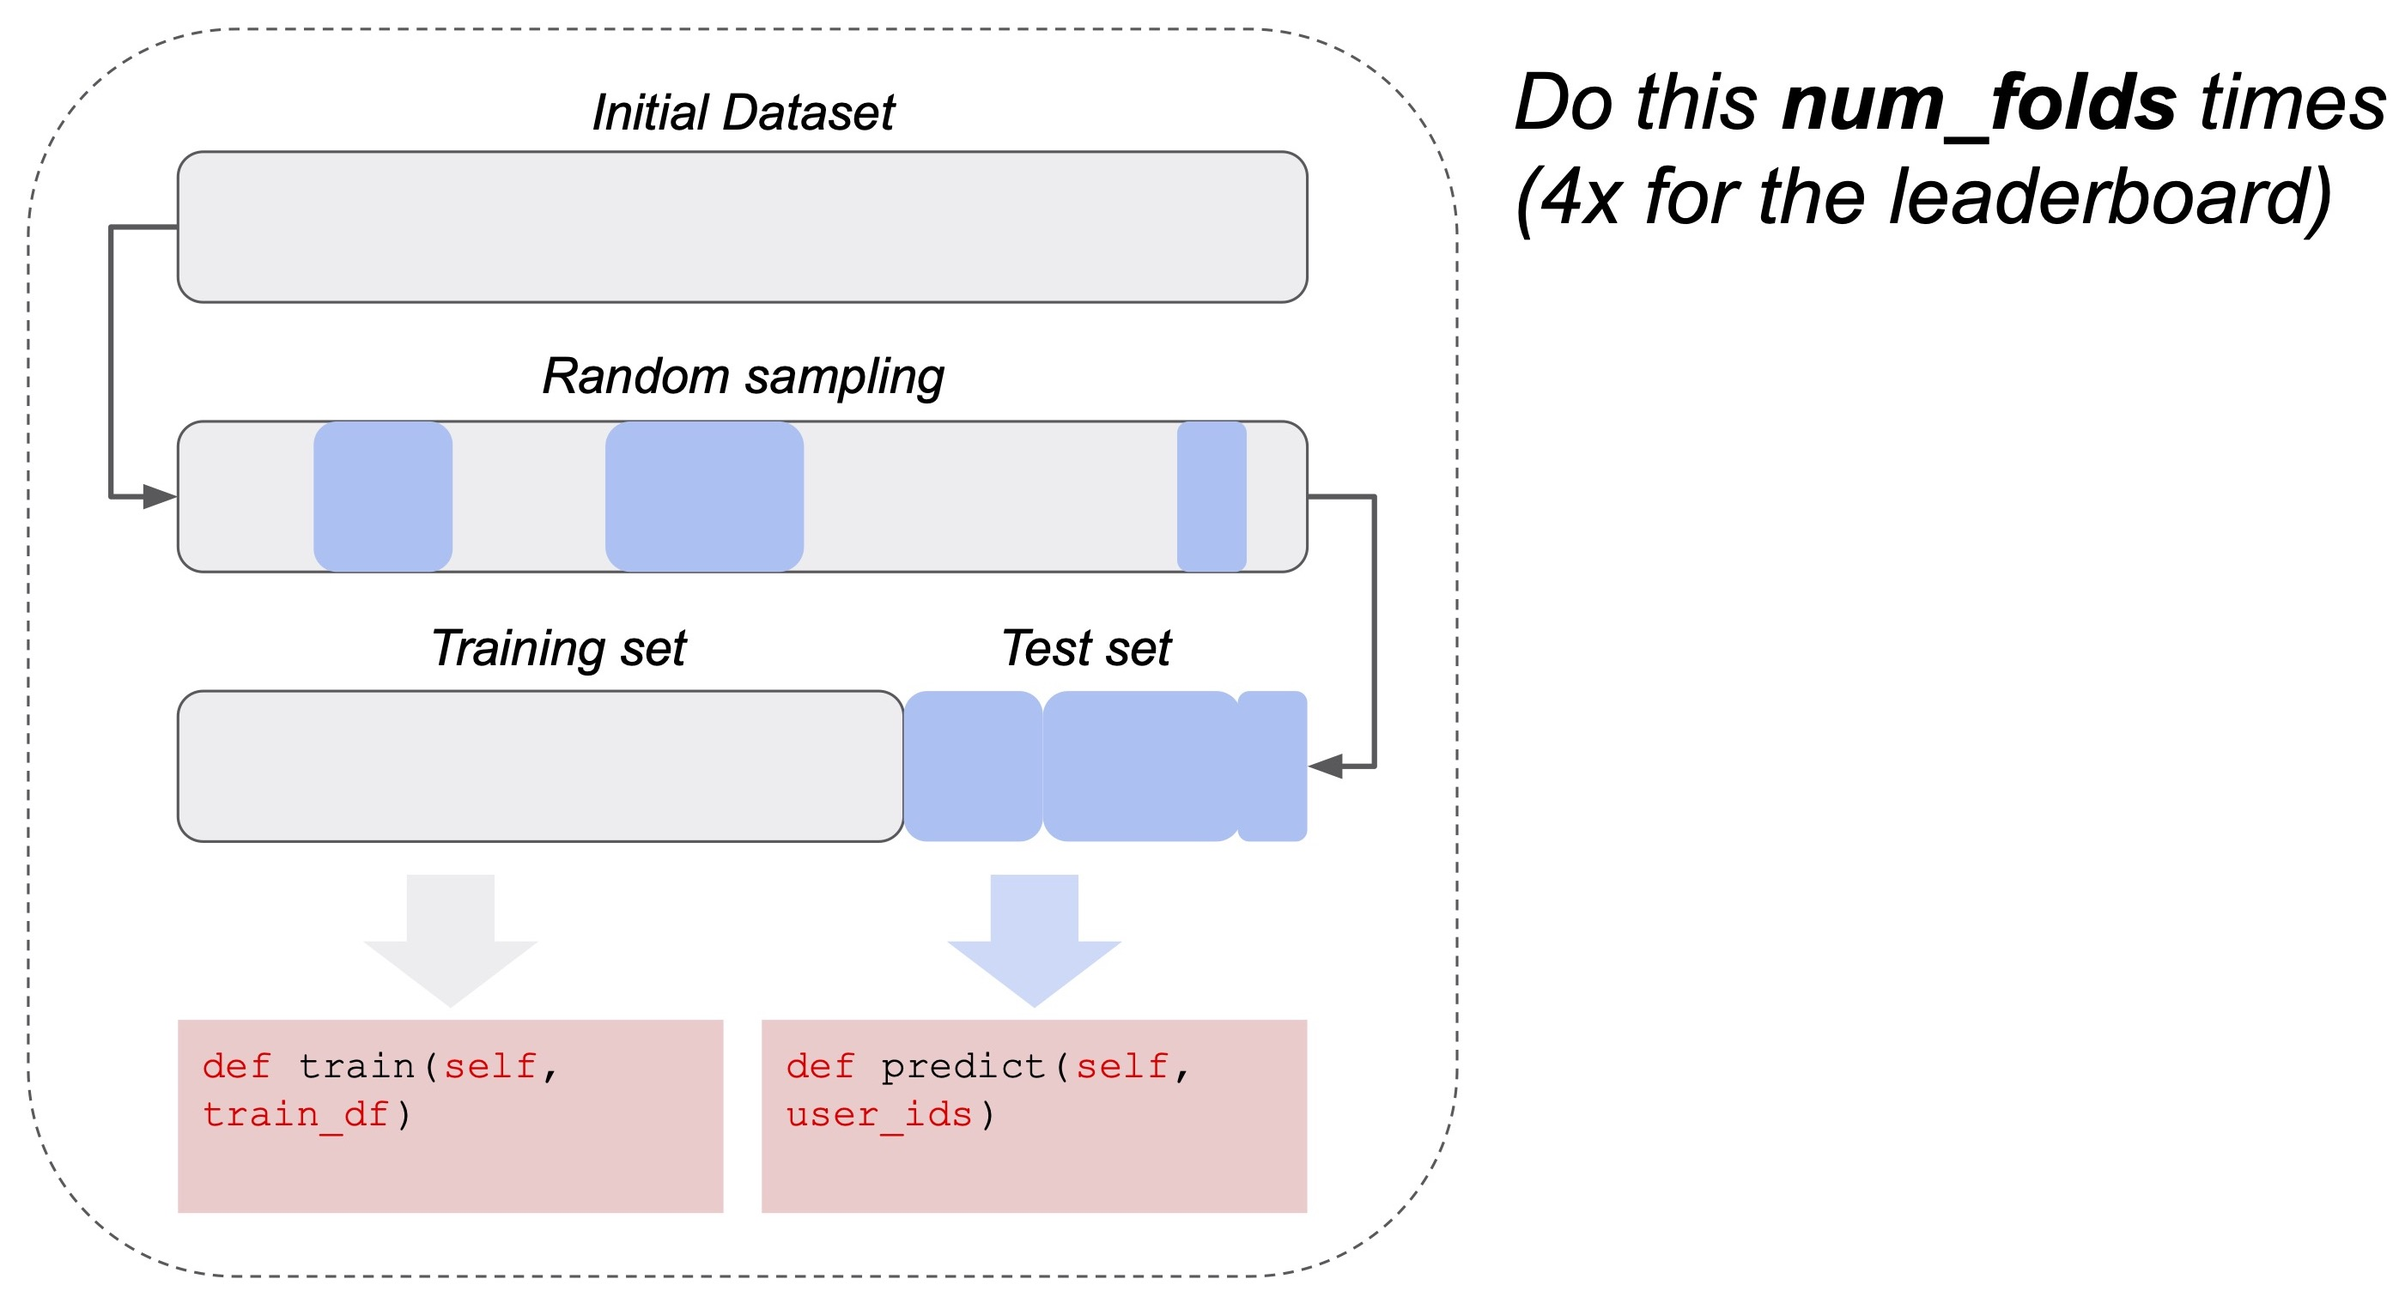
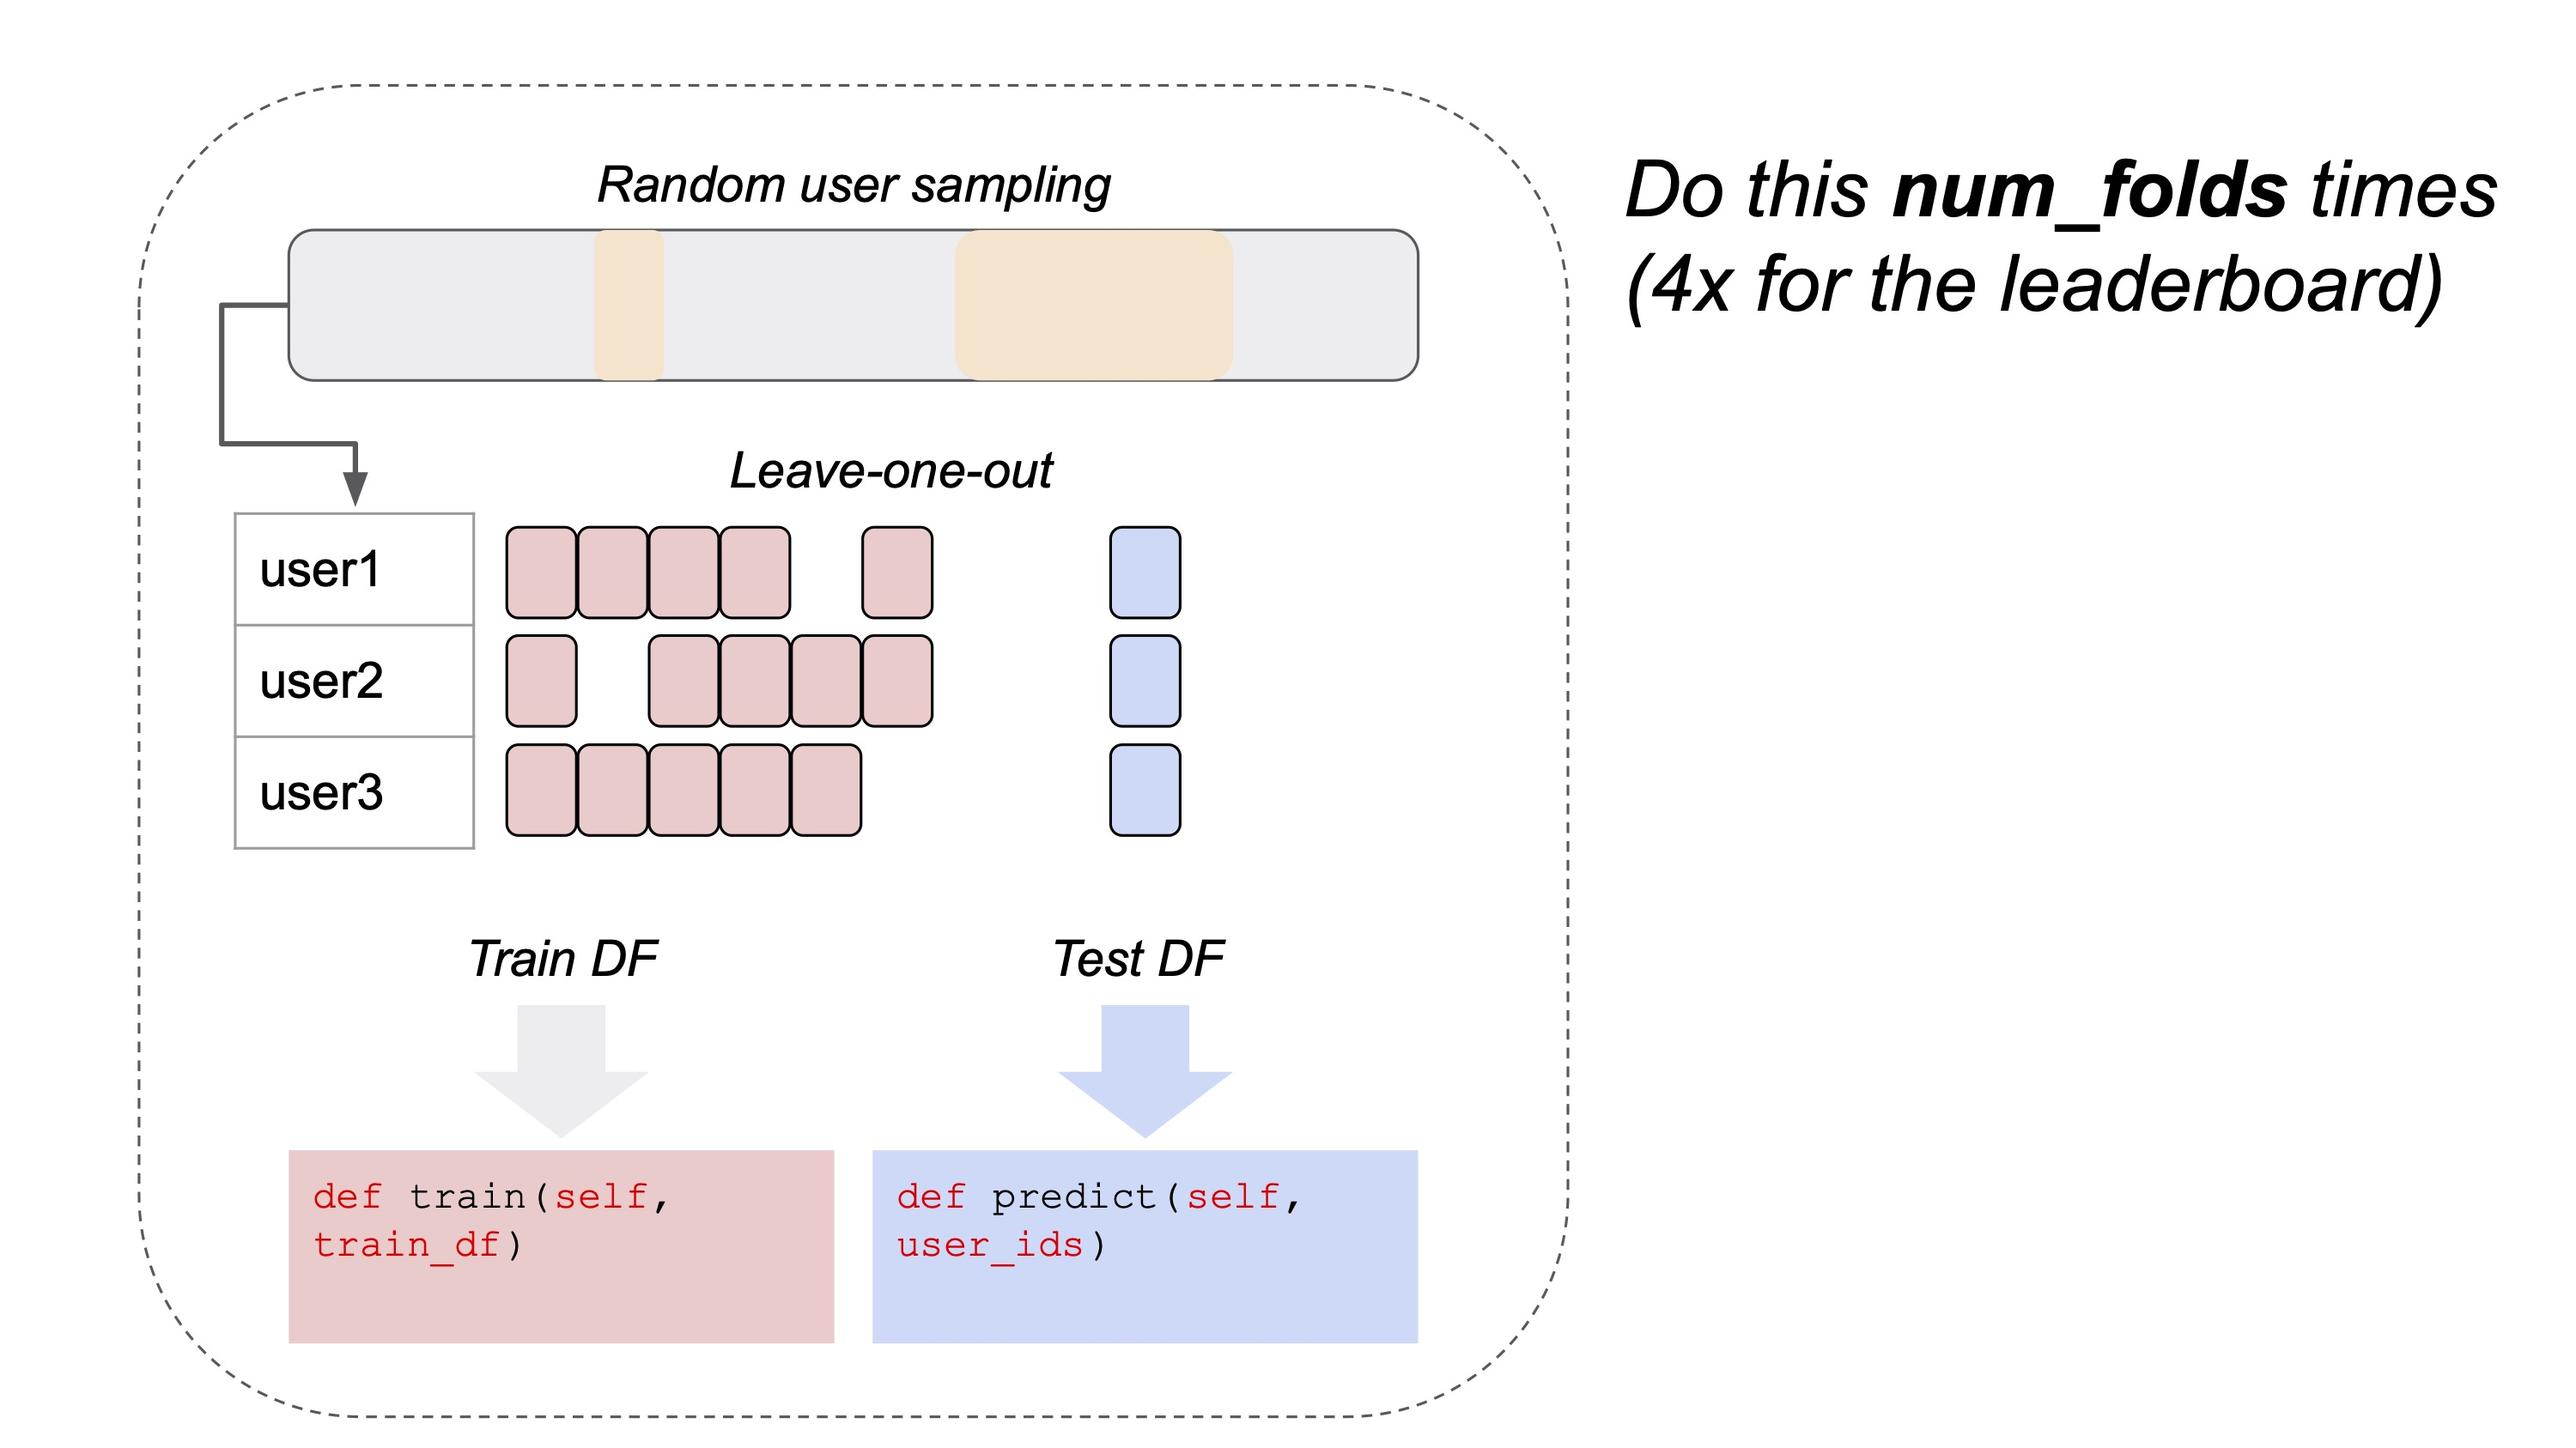
update loop drawing

diff --git a/evaluation/README.md b/evaluation/README.md
@@ -2,7 +2,7 @@
 
 `EvalRSRunner` (defined in`EvalRSRunner.py`) is a class which encapsulates the evaluation approach for EvalRS (Bootstrapped Nested Cross-Validation). Being this challenge a _code competiton_ on a public dataset, we could not rely on unseen test data to produce a final leaderboard.
 
-Our approach is illustrated in the following diagram: subsets of the original dataset are randomly designated as train and test set; `EvalRSRunner` will automatically feed them to the model object you provide (with your training and prediction logic), and the predictions will be scored with RecList. 
+Our approach is illustrated in the following diagram: subsets of the original dataset are randomly designated as train and test set; `EvalRSRunner` will automatically feed them to the model object you provide (with your training and prediction logic), and the predictions will be scored with RecList. Sampling is per-user, and testing is based on the "leave-one-out" principle: for each user, we pick a track and leave it for the test set as the target item for the predictions.
 
 ![Loop explanation](../images/loop.jpg)
 
